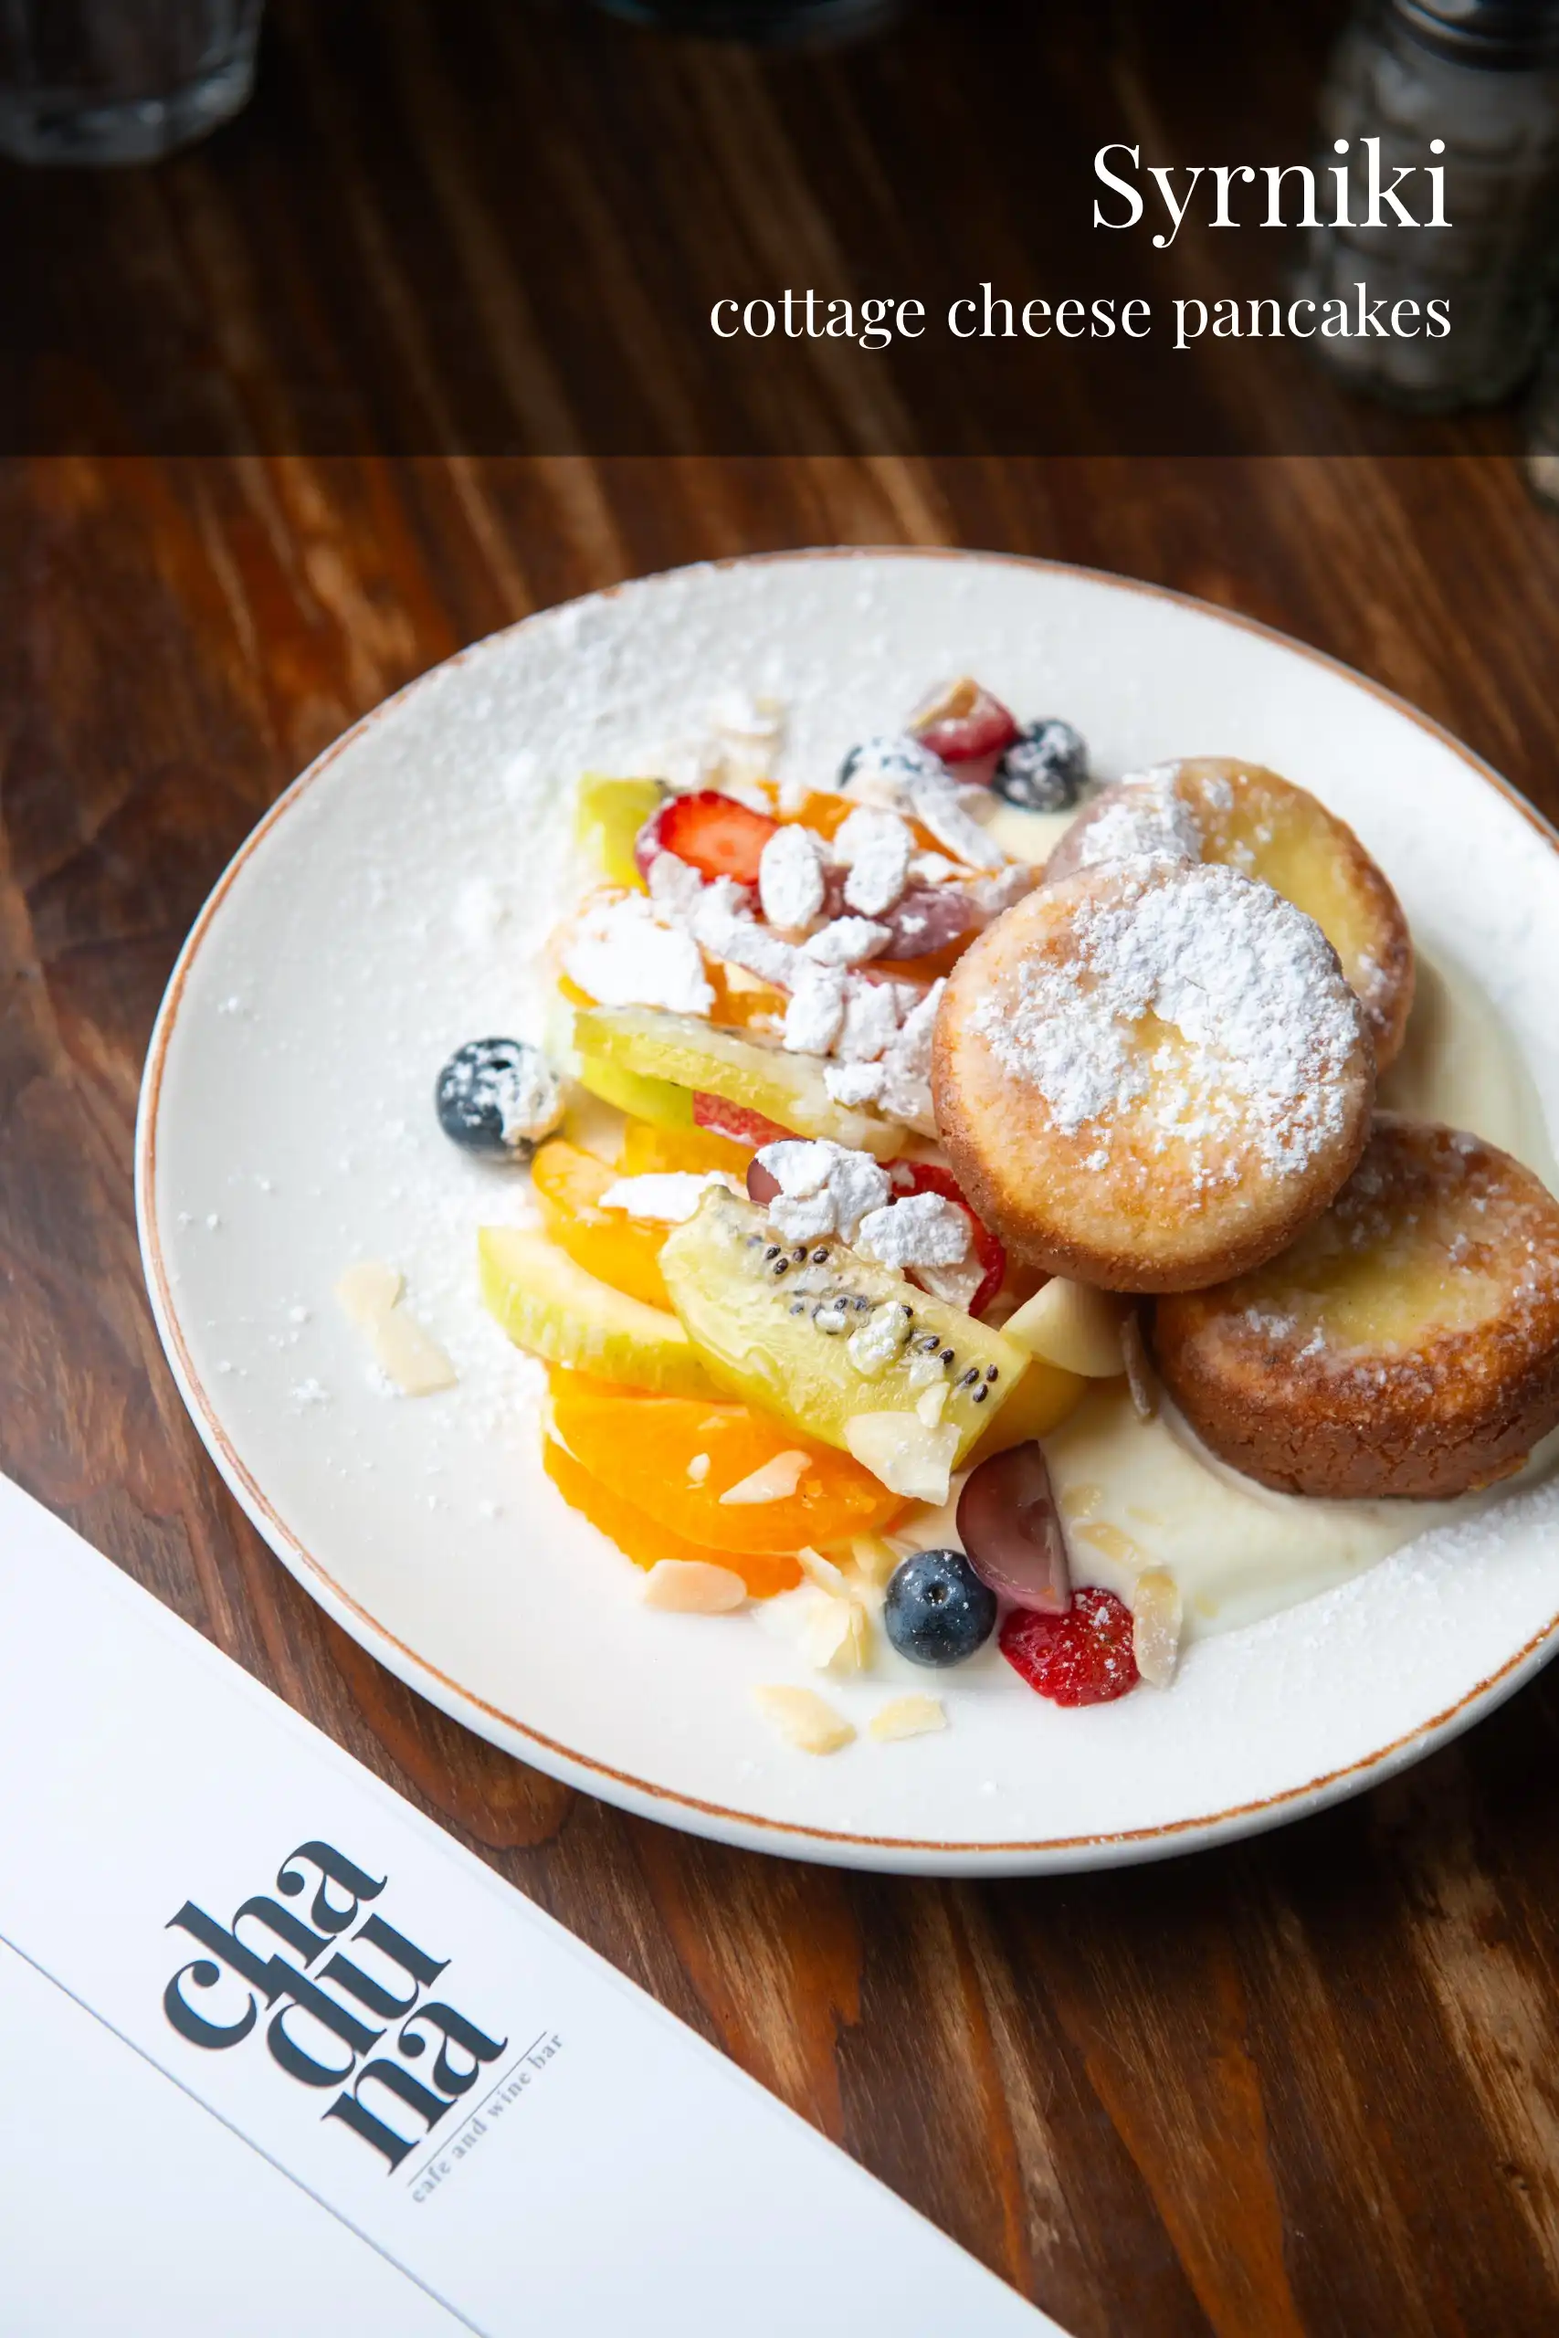
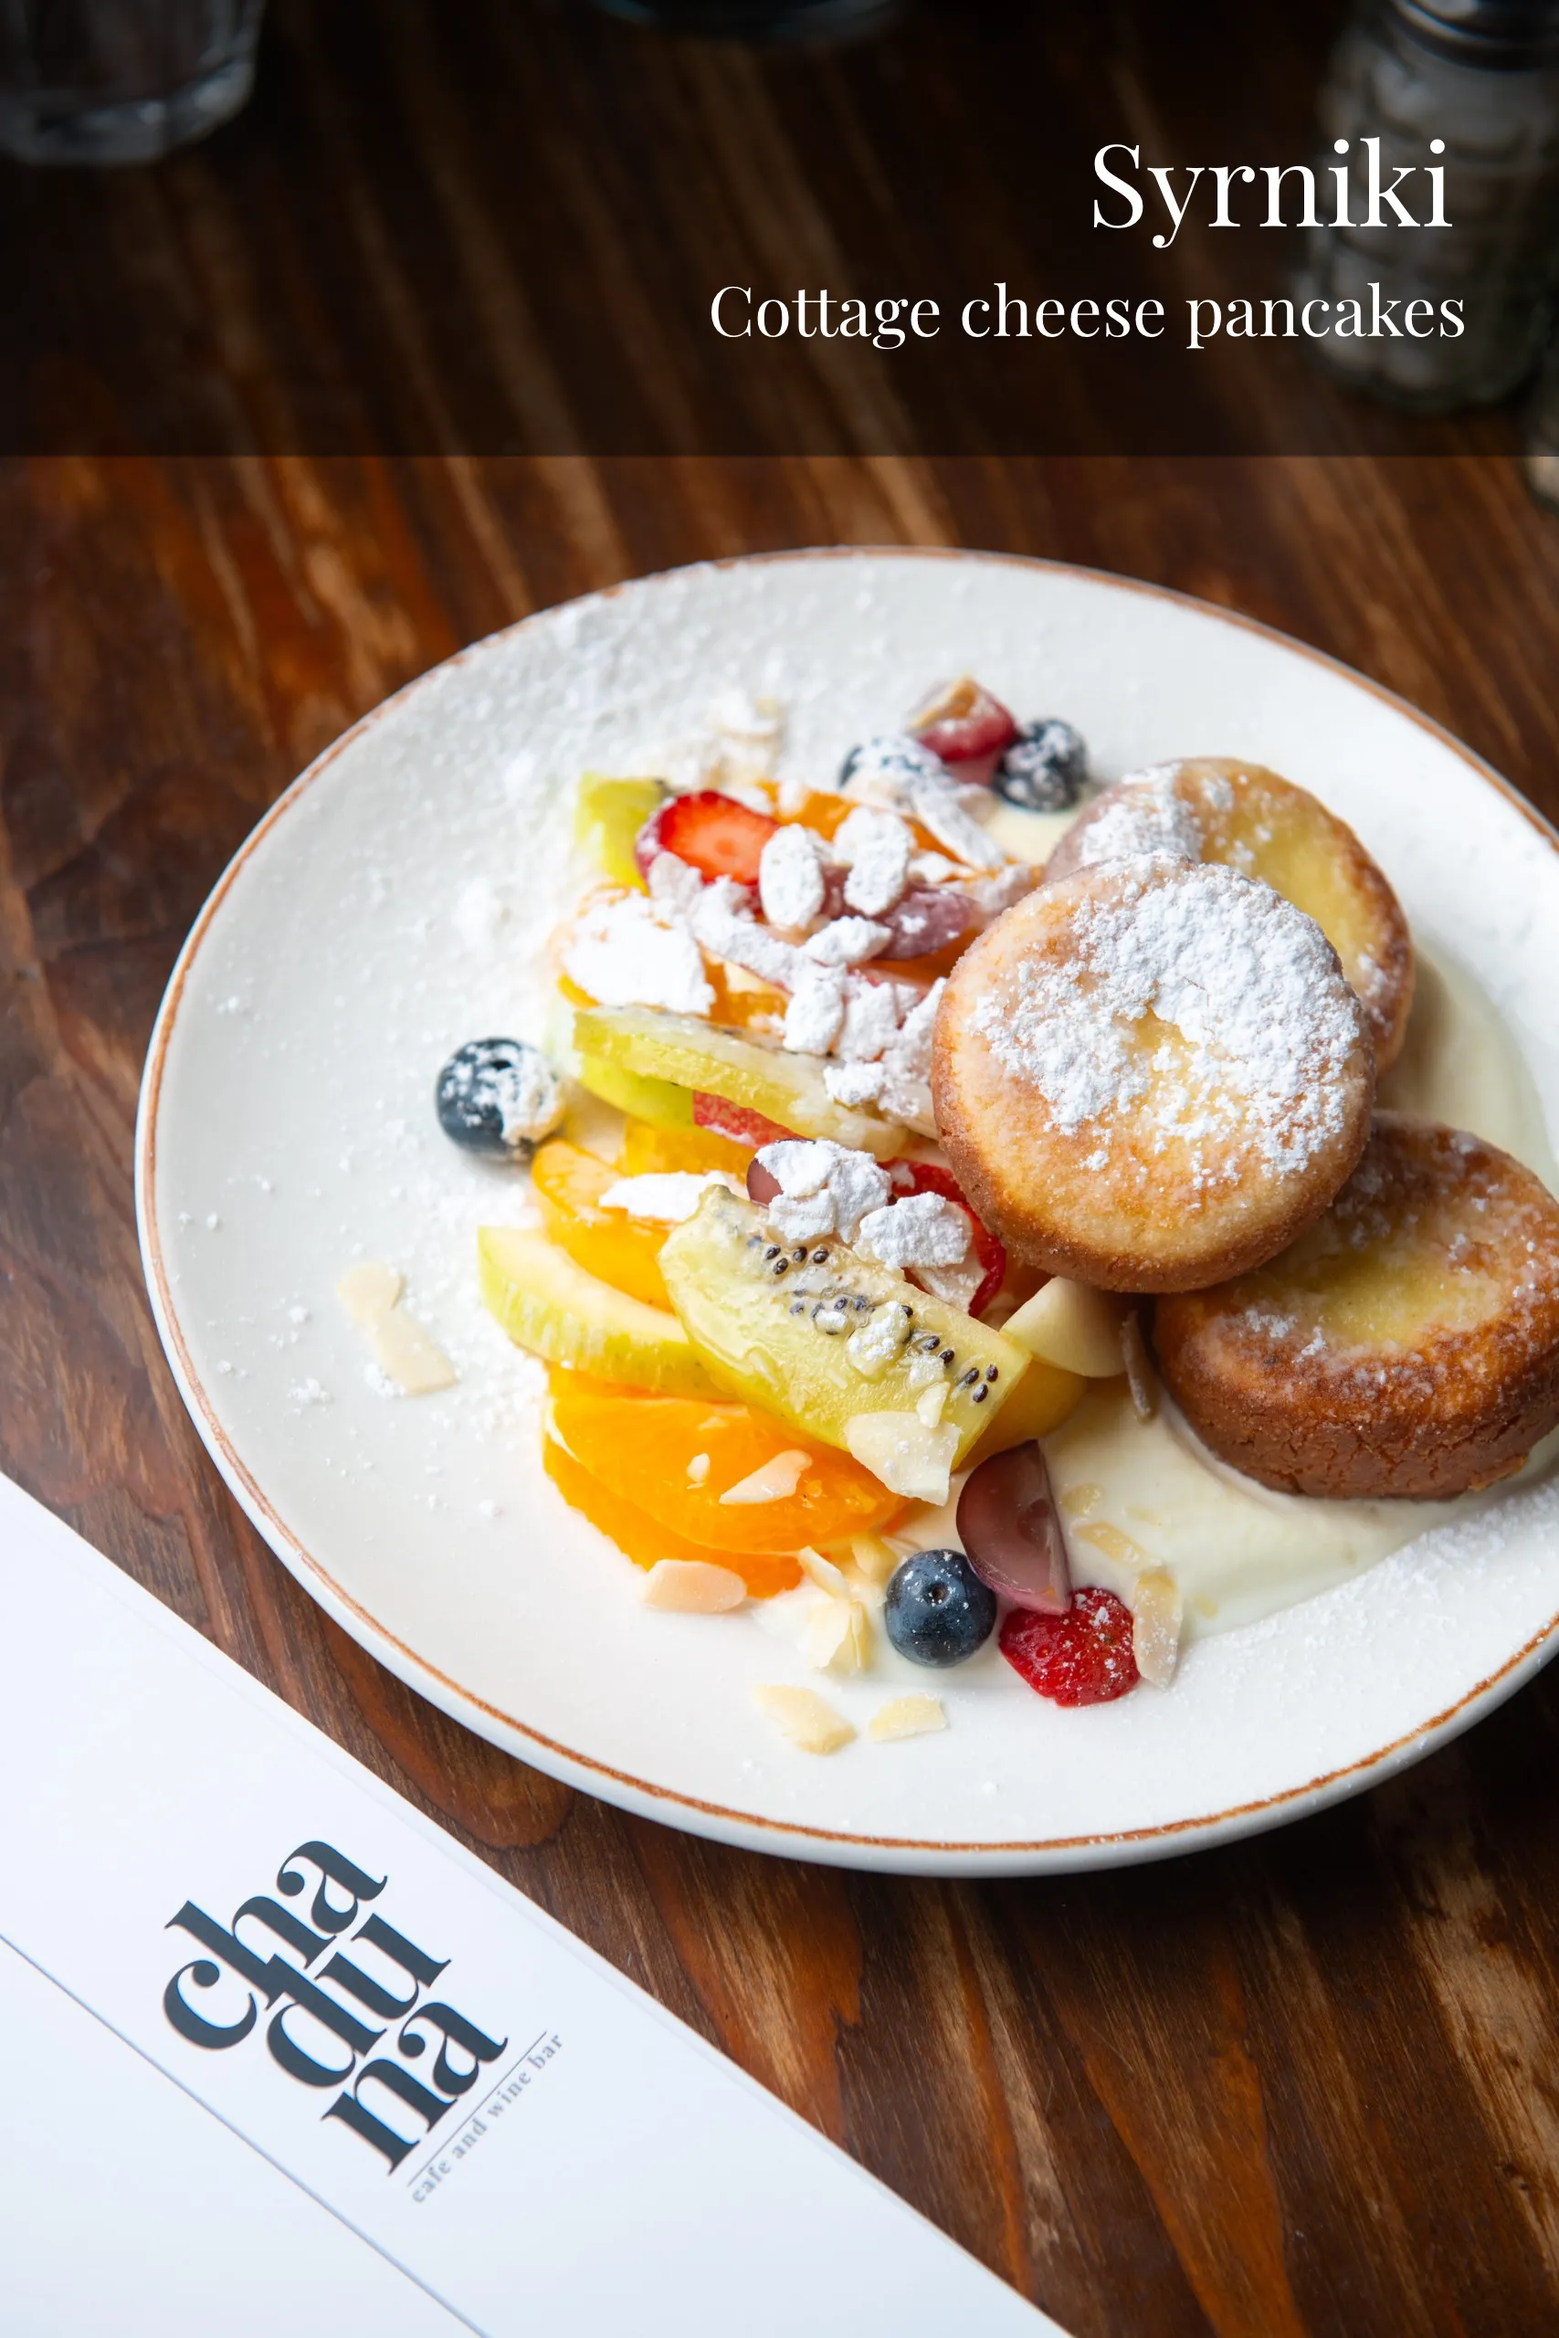
fix: adjust menu and food gallery to display more detailed items description

Changed region(s): [[0.4657, 0.125, 0.9315, 0.1562]]

diff --git a/gallery.html b/gallery.html
@@ -77,8 +77,12 @@
                 <p class="dish-name">Syrniki</p>
             </div>
             <div class="gallery-item">
-                <img src="/assets/img/food/breakfast/quesadilla.webp" alt="Quesadilla" onclick="openLightbox(this)" width="300" height="200" loading="lazy">
-                <p class="dish-name">Quesadilla</p>
+                <img src="/assets/img/food/breakfast/chicken-quesadilla.webp" alt="Chicken Quesadilla" onclick="openLightbox(this)" width="300" height="200" loading="lazy">
+                <p class="dish-name">Chicken Quesadilla</p>
+            </div>
+            <div class="gallery-item">
+                <img src="/assets/img/food/breakfast/veggie-quesadilla.webp" alt="Veggie Quesadilla" onclick="openLightbox(this)" width="300" height="200" loading="lazy">
+                <p class="dish-name">Veggie Quesadilla</p>
             </div>
         </div>
 
@@ -147,7 +151,8 @@
             "/assets/img/food/breakfast/scrambled-eggs.webp",
             "/assets/img/food/breakfast/frittata.webp",
             "/assets/img/food/breakfast/syrniki.webp",
-            "/assets/img/food/breakfast/quesadilla.webp",
+            "/assets/img/food/breakfast/chicken-quesadilla.webp",
+            "/assets/img/food/breakfast/veggie-quesadilla.webp",
             "/assets/img/food/bruschetta/carrot-br.webp",
             "/assets/img/food/bruschetta/pesto-br.webp",
             "/assets/img/food/bruschetta/champignon-br.webp",

diff --git a/menus/menu_ka.html b/menus/menu_ka.html
@@ -102,7 +102,7 @@
             <div class="menu-item">
                 <div>
                     <div class="item-name">ქესადილია</div>
-                    <div class="item-description">ქათამი ან ბოსტნეული, წიწაკა, ყველი, ხახვი</div>
+                    <div class="item-description">ქათამი <em>(ქათამი, წიწაკის ნაზავი, პომიდორი და მოცარელა)</em> ან<br>ბოსტნეული <em>(სტაფილო, წიწაკის ნაზავი, პომიდორი, ხახვი და მოცარელა)</em></div>
                 </div>
             </div>
             <div class="menu-item">

diff --git a/menus/menu_ru.html b/menus/menu_ru.html
@@ -102,7 +102,7 @@
             <div class="menu-item">
                 <div>
                     <div class="item-name">Кесадилья</div>
-                    <div class="item-description">С курицей или овощная, болгарский перец, сыр, лук</div>
+                    <div class="item-description">Курица <em>(Курица, смесь болгарского перца, помидор и моцарелла)</em> или<br>Овощная <em>(Морковь, смесь болгарского перца, помидор, лук и моцарелла)</em></div>
                 </div>
             </div>
             <div class="menu-item">

diff --git a/menus/menu_ar.html b/menus/menu_ar.html
@@ -102,7 +102,7 @@
             <div class="menu-item">
                 <div>
                     <div class="item-name">كاساديا</div>
-                    <div class="item-description">دجاج أو خضار، فلفل حلو، جبن، بصل</div>
+                    <div class="item-description">دجاج <em>(دجاج، مزيج الفلفل الحلو، الطماطم والموتزاريلا)</em> أو<br>خضار <em>(جزر، مزيج الفلفل الحلو، الطماطم، بصل والموتزاريلا)</em></div>
                 </div>
             </div>
             <div class="menu-item">

diff --git a/menus/menu_zh.html b/menus/menu_zh.html
@@ -102,7 +102,7 @@
             <div class="menu-item">
                 <div>
                     <div class="item-name">墨西哥玉米饼</div>
-                    <div class="item-description">鸡肉或蔬菜、甜椒、奶酪、洋葱</div>
+                    <div class="item-description">鸡肉<em>（鸡肉、甜椒混合、番茄和马苏里拉）</em>或<br>蔬菜<em>（胡萝卜、甜椒混合、番茄、洋葱和马苏里拉）</em></div>
                 </div>
             </div>
             <div class="menu-item">

diff --git a/menus/menu_fr.html b/menus/menu_fr.html
@@ -102,7 +102,7 @@
             <div class="menu-item">
                 <div>
                     <div class="item-name">Quesadilla</div>
-                    <div class="item-description">Poulet ou légumes, poivron, fromage, oignon</div>
+                    <div class="item-description">Poulet <em>(Poulet, mélange de poivrons, tomate et mozzarella)</em> ou<br>Légumes <em>(Carotte, mélange de poivrons, tomate, oignon et mozzarella)</em></div>
                 </div>
             </div>
             <div class="menu-item">

diff --git a/menus/menu_es.html b/menus/menu_es.html
@@ -102,7 +102,7 @@
             <div class="menu-item">
                 <div>
                     <div class="item-name">Quesadilla</div>
-                    <div class="item-description">Pollo o verduras, pimiento, queso, cebolla</div>
+                    <div class="item-description">Pollo <em>(Pollo, mezcla de pimientos, tomate y mozzarella)</em> o<br>Verduras <em>(Zanahoria, mezcla de pimientos, tomate, cebolla y mozzarella)</em></div>
                 </div>
             </div>
             <div class="menu-item">

diff --git a/menus/menu_de.html b/menus/menu_de.html
@@ -102,7 +102,7 @@
             <div class="menu-item">
                 <div>
                     <div class="item-name">Quesadilla</div>
-                    <div class="item-description">Hähnchen oder Gemüse, Paprika, Käse, Zwiebel</div>
+                    <div class="item-description">Hähnchen <em>(Hähnchen, Paprika-Mix, Tomate & Mozzarella)</em> oder<br>Gemüse <em>(Karotte, Paprika-Mix, Tomate, Zwiebel & Mozzarella)</em></div>
                 </div>
             </div>
             <div class="menu-item">

diff --git a/menus/menu_it.html b/menus/menu_it.html
@@ -102,7 +102,7 @@
             <div class="menu-item">
                 <div>
                     <div class="item-name">Quesadilla</div>
-                    <div class="item-description">Pollo o verdure, peperone, formaggio, cipolla</div>
+                    <div class="item-description">Pollo <em>(Pollo, mix di peperoni, pomodoro e mozzarella)</em> o<br>Verdure <em>(Carota, mix di peperoni, pomodoro, cipolla e mozzarella)</em></div>
                 </div>
             </div>
             <div class="menu-item">

diff --git a/menus/menu_tr.html b/menus/menu_tr.html
@@ -102,7 +102,7 @@
             <div class="menu-item">
                 <div>
                     <div class="item-name">Quesadilla</div>
-                    <div class="item-description">Tavuk veya sebze, biber, peynir, soğan</div>
+                    <div class="item-description">Tavuk <em>(Tavuk, biber karışımı, domates ve mozzarella)</em> veya<br>Sebze <em>(Havuç, biber karışımı, domates, soğan ve mozzarella)</em></div>
                 </div>
             </div>
             <div class="menu-item">

diff --git a/menus/menu_en.html b/menus/menu_en.html
@@ -103,7 +103,7 @@
             <div class="menu-item">
                 <div>
                     <div class="item-name">Quesadilla</div>
-                    <div class="item-description">Chicken or Veggie, Bell Pepper, Cheese, Onion</div>
+                    <div class="item-description">Chicken <em>(Chicken, Bell Pepper Mix, Tomato & Mozarella)</em> or<br>Veggie <em>(Carrot, Bell Pepper Mix, Tomato, Onion & Mozarella)</em></div>
                 </div>
             </div>
             <div class="menu-item">
